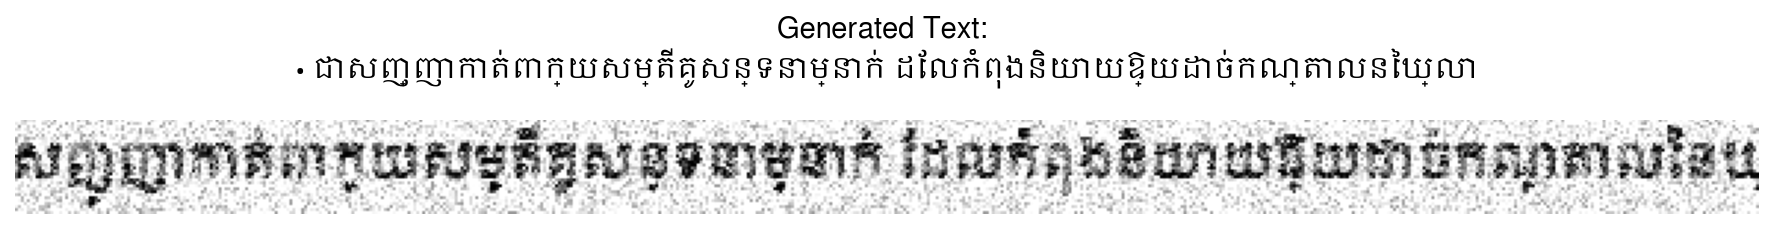
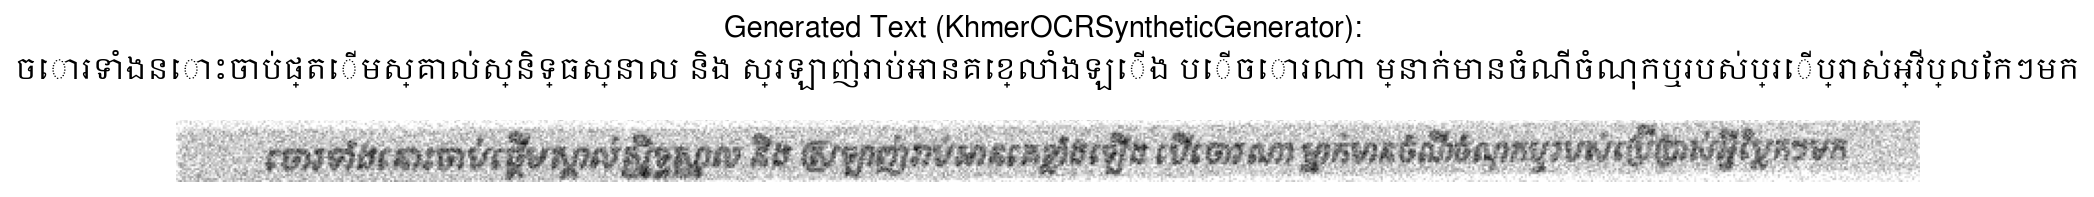
Integrate KhmerOCRSyntheticGenerator into OnTheFlyDataset for enhanced Khmer text rendering
- Updated the OnTheFlyDataset class to utilize KhmerOCRSyntheticGenerator, replacing the previous TextRenderer.
- Enhanced image generation with variable-width support, advanced backgrounds, and improved font handling.
- Modified debug script to reflect these changes, including detailed output on image generation parameters.
- Improved error handling and added informative logging for better debugging and user experience.

diff --git a/src/data/onthefly_dataset.py b/src/data/onthefly_dataset.py
@@ -14,13 +14,13 @@ from pathlib import Path
 
 import torch
 from torch.utils.data import Dataset
-from PIL import Image
+from PIL import Image, ImageFont
 import logging
 
-from .text_renderer import TextRenderer
 from .augmentation import DataAugmentation
 from .corpus_processor import KhmerCorpusProcessor
 from ..utils.config import ConfigManager
+from ..synthetic_data_generator.khmer_ocr_generator import KhmerOCRSyntheticGenerator
 
 logger = logging.getLogger(__name__)
 
@@ -31,7 +31,7 @@ class OnTheFlyDataset(Dataset):
     
     This dataset:
     - Loads text lines from corpus
-    - Generates images dynamically per batch
+    - Generates images dynamically per batch using KhmerOCRSyntheticGenerator
     - Applies real-time augmentation
     - Reduces storage requirements
     - Provides unlimited augmentation variety
@@ -57,7 +57,7 @@ class OnTheFlyDataset(Dataset):
             corpus_dir: Directory with processed corpus data
             samples_per_epoch: Number of samples to generate per epoch
             augment_prob: Probability of applying augmentation (0.0-1.0)
-            fonts: List of font paths to use for rendering
+            fonts: List of font paths to use for rendering (optional, will use default fonts)
             shuffle_texts: Whether to shuffle text lines for variety
             random_seed: Random seed for reproducibility
         """
@@ -77,16 +77,18 @@ class OnTheFlyDataset(Dataset):
         self.text_lines = self._load_text_lines()
         logger.info(f"Loaded {len(self.text_lines)} text lines for {split} split")
         
-        # Initialize text renderer
-        if fonts is None:
-            fonts = self._get_default_fonts()
-        
-        self.text_renderer = TextRenderer(
-            fonts=fonts,
-            image_height=self.config.data_config.image_height
+        # Initialize KhmerOCRSyntheticGenerator for text rendering
+        self.text_generator = KhmerOCRSyntheticGenerator(
+            corpus_dir=str(self.corpus_dir),
+            output_dir="data/synthetic",  # Not used for on-the-fly generation
+            config_manager=self.config,
+            fonts_dir="fonts",
+            augment_train=(split == "train" and augment_prob > 0.0),
+            use_advanced_backgrounds=True,
+            random_seed=random_seed or 42
         )
         
-        # Initialize augmentation
+        # Initialize additional augmentation if needed
         self.use_augmentation = (split == "train" and augment_prob > 0.0)
         if self.use_augmentation:
             self.augmentation = DataAugmentation(
@@ -105,7 +107,7 @@ class OnTheFlyDataset(Dataset):
         logger.info(f"  Text lines: {len(self.text_lines)}")
         logger.info(f"  Samples per epoch: {samples_per_epoch}")
         logger.info(f"  Augmentation: {'enabled' if self.use_augmentation else 'disabled'}")
-        logger.info(f"  Fonts: {len(self.text_renderer.fonts)}")
+        logger.info(f"  Fonts: {len(self.text_generator.fonts)}")
         
     def _load_text_lines(self) -> List[str]:
         """Load text lines from corpus files"""
@@ -159,18 +161,6 @@ class OnTheFlyDataset(Dataset):
         
         return lines
     
-    def _get_default_fonts(self) -> List[str]:
-        """Get default Khmer fonts"""
-        fonts_dir = Path("fonts")
-        if not fonts_dir.exists():
-            raise FileNotFoundError(f"Fonts directory not found: {fonts_dir}")
-        
-        font_files = list(fonts_dir.glob("*.ttf"))
-        if not font_files:
-            raise FileNotFoundError("No TTF fonts found in fonts directory")
-        
-        return [str(font) for font in font_files]
-    
     def __len__(self) -> int:
         """Return dataset size (samples per epoch)"""
         return self.samples_per_epoch
@@ -193,31 +183,43 @@ class OnTheFlyDataset(Dataset):
         if self.split == "train" and random.random() < 0.3:
             text = random.choice(self.text_lines)
         
-        # Select font
-        if self.split == "train":
-            # Random font selection for training (data augmentation)
-            font_path = random.choice(self.text_renderer.fonts)
-        else:
-            # Consistent font selection for val/test based on text hash
-            font_idx = hash(text + str(idx)) % len(self.text_renderer.fonts)
-            font_path = self.text_renderer.fonts[font_idx]
+        # Select font using the generator's font selection logic
+        font_path = self.text_generator._select_font(text, self.split)
         
-        # Render text to image
+        # Calculate optimal width for the text
+        temp_font = ImageFont.truetype(font_path, self.text_generator.font_size)
+        image_width = self.text_generator._calculate_optimal_width(text, temp_font)
+        
+        # Render text to image using KhmerOCRSyntheticGenerator
         try:
-            image = self.text_renderer.render_text(text, font_path)
+            image = self.text_generator._render_text_image(text, font_path, image_width)
         except Exception as e:
             logger.warning(f"Error rendering text '{text}': {e}")
             # Fallback to simple text if rendering fails
             fallback_text = "ខ្មែរ"  # Simple Khmer text
-            image = self.text_renderer.render_text(fallback_text, font_path)
-            text = fallback_text
+            try:
+                image = self.text_generator._render_text_image(fallback_text, font_path, image_width)
+                text = fallback_text
+            except Exception as e2:
+                logger.error(f"Error rendering fallback text: {e2}")
+                # Create minimal fallback image
+                image = Image.new('L', (image_width, self.text_generator.image_height), color=255)
+                text = ""
         
-        # Apply augmentation if enabled
+        # Apply augmentation using the generator if enabled
+        if self.use_augmentation and self.text_generator.augmentor:
+            try:
+                image = self.text_generator._apply_augmentation(image)
+            except Exception as e:
+                logger.warning(f"Error applying augmentation: {e}")
+                # Continue with original image if augmentation fails
+        
+        # Apply additional augmentation if configured
         if self.use_augmentation and self.augmentation:
             try:
                 image = self.augmentation.apply_augmentations(image)
             except Exception as e:
-                logger.warning(f"Error applying augmentation: {e}")
+                logger.warning(f"Error applying additional augmentation: {e}")
                 # Continue with original image if augmentation fails
         
         # Convert image to tensor
@@ -253,23 +255,18 @@ class OnTheFlyDataset(Dataset):
     
     def get_text_sample(self, num_samples: int = 5) -> List[str]:
         """Get a sample of text lines for inspection"""
-        sample_indices = random.sample(range(len(self.text_lines)), 
-                                     min(num_samples, len(self.text_lines)))
-        return [self.text_lines[i] for i in sample_indices]
+        return random.sample(self.text_lines, min(num_samples, len(self.text_lines)))
     
     def get_statistics(self) -> Dict[str, any]:
         """Get dataset statistics"""
-        text_lengths = [len(text) for text in self.text_lines]
-        
         return {
-            "total_text_lines": len(self.text_lines),
-            "samples_per_epoch": self.samples_per_epoch,
-            "avg_text_length": sum(text_lengths) / len(text_lengths) if text_lengths else 0,
-            "min_text_length": min(text_lengths) if text_lengths else 0,
-            "max_text_length": max(text_lengths) if text_lengths else 0,
             "split": self.split,
-            "augmentation_enabled": self.use_augmentation,
-            "fonts_available": len(self.text_renderer.fonts)
+            "text_lines": len(self.text_lines),
+            "samples_per_epoch": self.samples_per_epoch,
+            "fonts": len(self.text_generator.fonts),
+            "augmentation": self.use_augmentation,
+            "image_height": self.text_generator.image_height,
+            "variable_width": True
         }
 
 

diff --git a/debug_colab_image_generation.py b/debug_colab_image_generation.py
@@ -3,7 +3,7 @@ Debug script for testing synthetic image generation in a Colab environment.
 
 This script will:
 1. Initialize the necessary components from the khmer-ocr-seq2seq project.
-2. Create an instance of the on-the-fly dataset generator.
+2. Create an instance of the on-the-fly dataset generator (now using KhmerOCRSyntheticGenerator).
 3. Generate a single, fully augmented training sample.
 4. Display the generated image and its corresponding text label.
 """
@@ -38,8 +38,8 @@ else:
         """
         Initializes the dataset, generates one sample, and displays it.
         """
-        print("🚀 Starting Khmer OCR Synthetic Image Generation Test...")
-        print("="*60)
+        print("🚀 Starting Khmer OCR Synthetic Image Generation Test (with KhmerOCRSyntheticGenerator)...")
+        print("="*80)
 
         try:
             # 1. Initialize ConfigManager to load all project configurations
@@ -50,8 +50,8 @@ else:
             print("   ✅ Configurations loaded.")
 
             # 2. Initialize the On-the-fly Dataset for the 'train' split
-            #    This will set up the text renderer and data augmentation pipeline.
-            print("2. Initializing OnTheFlyDataset...")
+            #    This will now use KhmerOCRSyntheticGenerator for text rendering
+            print("2. Initializing OnTheFlyDataset with KhmerOCRSyntheticGenerator...")
             # We set a random seed for reproducibility of this test.
             # In real training, this might be omitted for more randomness.
             dataset = OnTheFlyDataset(
@@ -64,8 +64,10 @@ else:
             )
             print("   ✅ Dataset initialized.")
             print(f"   - Found {len(dataset.text_lines)} text lines.")
-            print(f"   - Using {len(dataset.text_renderer.fonts)} fonts.")
-
+            print(f"   - Using {len(dataset.text_generator.fonts)} fonts.")
+            print(f"   - Image height: {dataset.text_generator.image_height}px (variable width)")
+            print(f"   - Advanced backgrounds: {dataset.text_generator.use_advanced_backgrounds}")
+            print(f"   - Augmentation enabled: {dataset.use_augmentation}")
 
             # 3. Generate one sample
             print("3. Generating one augmented sample...")
@@ -74,7 +76,8 @@ else:
             random_index = random.randint(0, len(dataset) - 1)
             image_tensor, _, text_label = dataset[random_index]
             print("   ✅ Sample generated.")
-
+            print(f"   - Text: '{text_label}'")
+            print(f"   - Image tensor shape: {image_tensor.shape}")
 
             # 4. Convert the image tensor back to a displayable format
             print("4. Preparing image for display...")
@@ -82,16 +85,19 @@ else:
             # - Convert to a NumPy array
             # - Transpose to [H, W, C] for plotting
             # - Squeeze the channel dimension if it's grayscale (C=1)
-            # - Denormalize from [0, 1] to [0, 255]
+            # - Denormalize from [-1, 1] to [0, 255]
             image_numpy = image_tensor.numpy()
             image_numpy = np.transpose(image_numpy, (1, 2, 0))
             if image_numpy.shape[2] == 1:
                 image_numpy = image_numpy.squeeze(axis=2)
 
-            # Denormalize (assuming the tensor was normalized to [0, 1])
+            # Denormalize from [-1, 1] to [0, 1] then to [0, 255]
+            image_numpy = (image_numpy + 1.0) / 2.0  # [-1, 1] -> [0, 1]
+            image_numpy = np.clip(image_numpy, 0, 1)  # Ensure valid range
             image_numpy = (image_numpy * 255).astype(np.uint8)
             pil_image = Image.fromarray(image_numpy)
             print("   ✅ Image ready.")
+            print(f"   - Final image size: {pil_image.size}")
 
             # 5. Display the image and its label
             print("5. Displaying results...")
@@ -105,7 +111,8 @@ else:
 
             plt.figure(figsize=(15, 4))
             plt.imshow(pil_image, cmap='gray')
-            plt.title(f"Generated Text: \n{text_label}", fontproperties=khmer_font, fontsize=14, pad=20)
+            plt.title(f"Generated Text (KhmerOCRSyntheticGenerator): \n{text_label}", 
+                     fontproperties=khmer_font, fontsize=14, pad=20)
             plt.axis('off')
             
             # Save the figure to a file
@@ -120,6 +127,8 @@ else:
             print("   Please ensure all required data and font files are present.")
         except Exception as e:
             print(f"❌ An unexpected error occurred: {e}")
+            import traceback
+            print(f"   Traceback: {traceback.format_exc()}")
 
     # Run the generation and display function
     generate_and_display_sample() 

diff --git a/prd/prd_api_context.md b/prd/prd_api_context.md
@@ -3,8 +3,9 @@
 ## Classes
 - `CheckpointManager` - Enhanced with Google Drive backup functionality
 - `KhmerCorpusProcessor` - Enhanced to support multiple training files
-- `OnTheFlyDataset` - Enhanced to support multiple training files  
+- `OnTheFlyDataset` - Enhanced to support multiple training files and integrated with KhmerOCRSyntheticGenerator
 - `KhmerCorpusDataset` - Enhanced to support multiple training files
+- `KhmerOCRSyntheticGenerator` - Advanced synthetic data generator with variable-width images and Khmer text rendering
 - `Trainer` - Enhanced to use Google Drive backup
 - `UserService`
 - `OrderController`
@@ -15,7 +16,13 @@
 - `CheckpointManager.sync_from_gdrive() -> bool` - New method to sync checkpoints from Google Drive
 - `CheckpointManager.get_gdrive_info() -> Dict[str, Any]` - New method to get Google Drive backup status
 - `CheckpointManager.list_gdrive_checkpoints() -> List[Dict[str, Any]]` - New method to list Google Drive checkpoints
+- `OnTheFlyDataset.__init__(split, config_manager, corpus_dir, samples_per_epoch, augment_prob, fonts, shuffle_texts, random_seed)` - Enhanced to use KhmerOCRSyntheticGenerator
 - `OnTheFlyDataset._load_text_lines() -> List[str]` - Enhanced to detect and load multiple training files (train_*.txt)
+- `OnTheFlyDataset.__getitem__(idx) -> Tuple[torch.Tensor, torch.Tensor, str]` - Enhanced to use KhmerOCRSyntheticGenerator for text rendering
+- `KhmerOCRSyntheticGenerator._render_text_image(text: str, font_path: str, image_width: int) -> Image.Image` - Advanced Khmer text rendering with backgrounds
+- `KhmerOCRSyntheticGenerator._calculate_optimal_width(text: str, font: ImageFont.FreeTypeFont) -> int` - Dynamic width calculation
+- `KhmerOCRSyntheticGenerator._select_font(text: str, split: str) -> str` - Smart font selection for training/validation
+- `KhmerOCRSyntheticGenerator._apply_augmentation(image: Image.Image) -> Image.Image` - Integrated augmentation pipeline
 - `KhmerCorpusDataset._load_text_lines() -> List[str]` - Enhanced to handle multiple training files with fallback
 - `KhmerCorpusProcessor.load_processed_data(data_dir: str) -> Dict[str, List[str]]` - Enhanced to load multiple training files
 - `UserService.create_user(user_name:str, ...) -> bool`
@@ -28,5 +35,7 @@
 - **Colab Integration**: Seamless Google Colab environment setup with `setup_colab_gdrive.py`
 
 ## Recent Enhancements
+- **KhmerOCRSyntheticGenerator Integration**: OnTheFlyDataset now uses advanced synthetic data generator for improved Khmer text rendering with variable-width images, advanced backgrounds, and better font handling
 - **Google Drive Backup**: Complete checkpoint backup system with automatic recovery
-- **Multiple Training Files Support**: All data loading systems now handle split training files (train_0.txt, train_1.txt, etc.) 
+- **Multiple Training Files Support**: All data loading systems now handle split training files (train_0.txt, train_1.txt, etc.)
+- **Font Size Consistency**: Standardized font size calculations across all text rendering methods to prevent inconsistencies 

diff --git a/docs/changes.md b/docs/changes.md
@@ -174,6 +174,24 @@ Implement dynamic image generation during training to eliminate the need for pre
 - **`test_onthefly_system.py`**: Comprehensive test suite validating on-the-fly dataset functionality, memory efficiency, reproducibility, and integration with training pipeline
 - **`
 
+## Feature: OnTheFlyDataset Integration with KhmerOCRSyntheticGenerator
+**Purpose:**  
+Replace TextRenderer with KhmerOCRSyntheticGenerator in OnTheFlyDataset to provide advanced Khmer text rendering, variable-width images, and improved background generation.
+
+**Implementation:**  
+- Modified `src/data/onthefly_dataset.py` to use KhmerOCRSyntheticGenerator instead of TextRenderer
+- Replaced TextRenderer initialization with KhmerOCRSyntheticGenerator initialization
+- Updated text rendering logic to use generator's methods:
+  - `_select_font()` for font selection
+  - `_calculate_optimal_width()` for dynamic width calculation
+  - `_render_text_image()` for advanced text rendering
+  - `_apply_augmentation()` for integrated augmentation
+- Updated debug script to reflect the changes and show integration details
+- Added comprehensive error handling and fallback mechanisms
+
+**History:**
+- Created — Integrated KhmerOCRSyntheticGenerator into OnTheFlyDataset, replacing TextRenderer for improved Khmer text rendering with variable-width images, advanced backgrounds, and better font handling. This provides more realistic training data with proper subscript support and dynamic image sizing.
+
 ## Feature: Font Size Consistency and Text Cropping Fix
 **Purpose:**  
 Fix inconsistent font size calculations across different text rendering methods and prevent text cropping in generated images.
